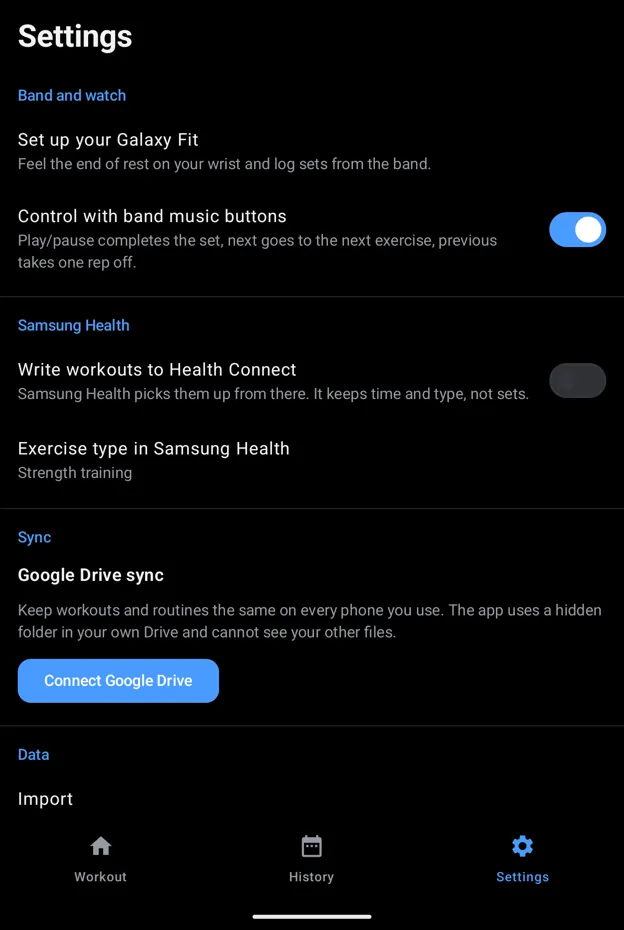
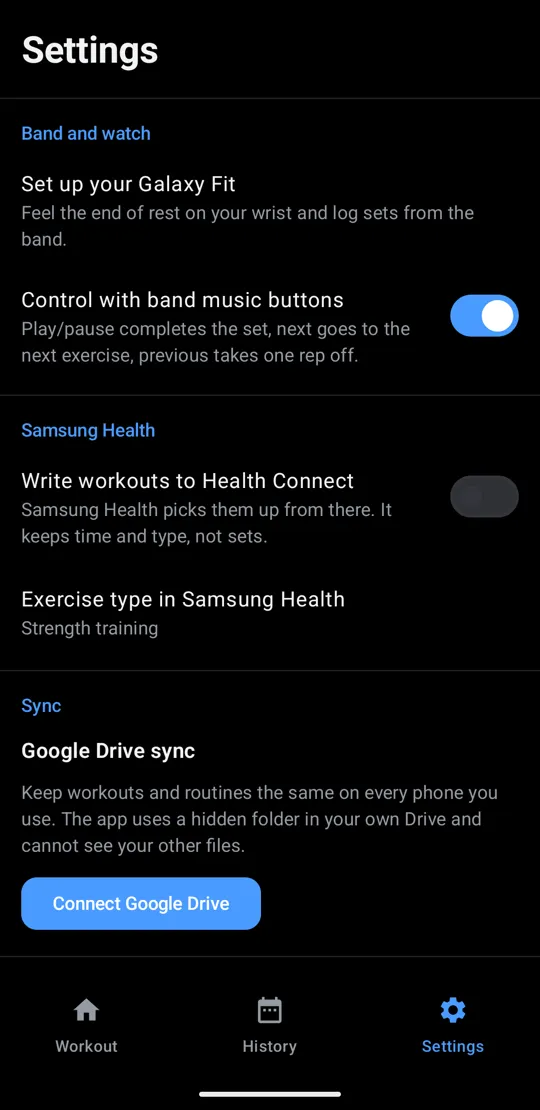
Use normal phone screenshots and a hero preview image
Phone screens are now captured at a regular phone size in both languages,
the link preview shows the band and the workout screen, the pages declare
light and dark support so browsers do not repaint them, and the Hevy and
Samsung Health sections say plainly what moves where.

Claude-Session: https://claude.ai/code/session_0114LWE17qvxGiTXra3xXtzB

diff --git a/ko/index.html b/ko/index.html
@@ -3,11 +3,15 @@
 <head>
   <meta charset="utf-8">
   <meta name="viewport" content="width=device-width, initial-scale=1">
+  <meta name="color-scheme" content="light dark">
   <title>FitGymLog: Galaxy Fit으로 조작하는 운동 기록</title>
   <meta name="description" content="Android용 운동 기록 앱. Galaxy Fit의 음악 버튼으로 세트를 끝내고, 휴식이 끝나면 손목 진동으로 알려주고, 원판을 눌러 무게를 맞춥니다.">
   <meta property="og:title" content="FitGymLog">
   <meta property="og:description" content="Galaxy Fit 밴드로 조작하는 Android 운동 기록 앱.">
-  <meta property="og:image" content="https://wonjoonseol-ws.github.io/fitgymlog/images/fold-ko.webp">
+  <meta property="og:image" content="https://wonjoonseol-ws.github.io/fitgymlog/images/og-ko.jpg">
+  <meta property="og:image:width" content="1200">
+  <meta property="og:image:height" content="630">
+  <meta name="twitter:card" content="summary_large_image">
   <link rel="alternate" hreflang="en" href="https://wonjoonseol-ws.github.io/fitgymlog/">
   <link rel="icon" href="../assets/icon.svg">
   <link rel="preconnect" href="https://fonts.googleapis.com">
@@ -46,7 +50,7 @@
           <p class="fine">Android 13 이상. Galaxy Fit3와 Galaxy Z 폴드에서 테스트했습니다. 아직 Google Play에는 없습니다.</p>
         </div>
         <div class="stack">
-          <div class="phone"><img src="../images/workout-ko.webp" width="624" height="930" alt="진행 중인 운동: 스쿼트 60kg 8회 세트와 완료 체크 칸"></div>
+          <div class="phone"><img src="../images/workout-ko.webp" width="540" height="1110" alt="진행 중인 운동: 스쿼트 60kg 8회 세트와 완료 체크 칸"></div>
           <svg class="fit3" viewBox="0 0 240 400" role="img" aria-label="Galaxy Fit3의 음악 조작 화면에 지금 세트가 보이는 그림">
             <defs><clipPath id="fit3-screen-ko"><rect x="54" y="70" width="132" height="260"/></clipPath></defs>
             <path class="wave" d="M22 160q-10 40 0 80"/><path class="wave far" d="M9 145q-14 55 0 110"/>
@@ -104,7 +108,7 @@
             <p>밴드의 음악 버튼은 가장 최근에 재생을 시작한 앱으로 갑니다. YouTube Music, Spotify, 자세 영상을 틀면 버튼이 그 앱과
               FitGymLog 사이를 오갈 수 있습니다. 휴식 진동은 알림이라 언제나 옵니다.</p></div>
         </div>
-        <div class="phone"><img src="../images/settings-band-ko.webp" width="624" height="930" alt="Galaxy Fit 연결과 밴드 음악 버튼 스위치가 있는 설정 화면" loading="lazy"></div>
+        <div class="phone"><img src="../images/settings-band-ko.webp" width="540" height="1110" alt="Galaxy Fit 연결과 밴드 음악 버튼 스위치가 있는 설정 화면" loading="lazy"></div>
       </div>
     </section>
 
@@ -118,7 +122,7 @@
             <li class="p25">25</li><li class="p20">20</li><li class="p15">15</li><li class="p10">10</li><li class="p5">5</li><li class="p2">2.5</li><li class="p1">1.25</li>
           </ul>
         </div>
-        <div class="phone"><img src="../images/plates-ko.webp" width="624" height="930" alt="바벨에 원판으로 212.5kg을 맞춘 무게 입력 화면" loading="lazy"></div>
+        <div class="phone"><img src="../images/plates-ko.webp" width="540" height="1110" alt="바벨에 원판으로 212.5kg을 맞춘 무게 입력 화면" loading="lazy"></div>
       </div>
     </section>
 
@@ -129,7 +133,7 @@
           <p class="lead">스쿼트, 벤치 프레스, 데드리프트, 오버헤드 프레스, 바벨 로우에는 StrongLifts의 영상과 설명 글이 들어
             있습니다. 어떤 운동에든 YouTube나 웹 링크를 추가하면 사진과 제목이 함께 보입니다. 영상은 YouTube에서 열립니다.</p>
         </div>
-        <div class="phone"><img src="../images/form-guide-ko.webp" width="624" height="930" alt="StrongLifts 영상과 글이 있는 벤치 프레스 자세 가이드" loading="lazy"></div>
+        <div class="phone"><img src="../images/form-guide-ko.webp" width="540" height="1110" alt="StrongLifts 영상과 글이 있는 벤치 프레스 자세 가이드" loading="lazy"></div>
       </div>
     </section>
 
@@ -144,9 +148,9 @@
 
     <section class="block soft" id="hevy">
       <div class="wrap">
-        <h2>써보고, 아니면 바로 돌아가세요</h2>
-        <p class="lead">Hevy를 쓰고 있다면 기록 전체를 한 번에 가져오세요. 한국어로 내보낸 파일도 됩니다. 마음에 들지 않으면 Hevy의
-          가져오기가 받는 Strong CSV로 내보내서 Hevy에서 그대로 이어가면 됩니다. Strong 파일도 가져올 수 있습니다.</p>
+        <h2>데이터 종속 없음. 언제든 돌아가세요</h2>
+        <p class="lead">Hevy 기록 전체를 한 번에 가져옵니다. 한국어로 내보낸 파일도 됩니다. 마음에 안 들면 Hevy의 가져오기가 받는
+          Strong CSV로 한 번 내보내면 바로 Hevy로 돌아갑니다. 써봐서 손해 볼 게 없습니다. Strong 파일도 가져올 수 있습니다.</p>
         <ol class="flow" aria-label="Hevy에서 FitGymLog로, 다시 Hevy로">
           <li class="app-chip">Hevy</li>
           <li class="step">CSV 내보내기 후 가져오기</li>
@@ -154,7 +158,7 @@
           <li class="step">Strong CSV로 내보내기</li>
           <li class="app-chip">Hevy</li>
         </ol>
-        <p class="fine-print">세트, 무게, 횟수는 양쪽으로 그대로 갑니다. 워밍업, 드롭, 실패 세트 표시는 아직 Strong CSV에 담기지 않습니다.</p>
+        <p class="fine-print">세트, 무게, 횟수는 양쪽으로 그대로 갑니다.</p>
       </div>
     </section>
 
@@ -186,11 +190,11 @@
           <h2>내 기록은 내가 갖고</h2>
           <dl class="facts">
             <div><dt>휴대폰에 저장</dt><dd>운동 기록은 휴대폰에 있고, 백업과 내보내기는 내가 보관하는 파일입니다. 계정, 광고, 분석이 없습니다.</dd></div>
-            <div><dt>Samsung Health</dt><dd>마친 운동은 Health Connect에 기록되고, Samsung Health가 거기서 가져갑니다. 시간과 종류만 남고 세트는 남지 않습니다.</dd></div>
+            <div><dt>Samsung Health</dt><dd>FitGymLog는 세트까지 전부 Health Connect에 기록합니다. Samsung Health는 거기서 운동을 가져가지만, 지금은 시간과 운동 종류만 보여줍니다.</dd></div>
             <div><dt>Google Drive 동기화도 내 Drive에</dt><dd>선택 사항입니다. 내 Drive의 숨김 폴더에 파일 하나를 두고 휴대폰끼리 맞춥니다. 앱은 다른 파일을 볼 수 없습니다.</dd></div>
           </dl>
         </div>
-        <div class="phone"><img src="../images/settings-data-ko.webp" width="624" height="930" alt="Google Drive 동기화, 가져오기, 내보내기 세 가지가 있는 설정 화면" loading="lazy"></div>
+        <div class="phone"><img src="../images/settings-data-ko.webp" width="540" height="1110" alt="Google Drive 동기화, 가져오기, 내보내기 세 가지가 있는 설정 화면" loading="lazy"></div>
       </div>
     </section>
   </main>

diff --git a/index.html b/index.html
@@ -3,11 +3,15 @@
 <head>
   <meta charset="utf-8">
   <meta name="viewport" content="width=device-width, initial-scale=1">
+  <meta name="color-scheme" content="light dark">
   <title>FitGymLog: a workout log you can run from a Galaxy Fit</title>
   <meta name="description" content="A workout log for Android. Complete sets with your Galaxy Fit's music buttons, feel a buzz when rest is over, and load the bar by tapping plates.">
   <meta property="og:title" content="FitGymLog">
   <meta property="og:description" content="A workout log for Android that you can run from a Galaxy Fit band.">
-  <meta property="og:image" content="https://wonjoonseol-ws.github.io/fitgymlog/images/fold-en.webp">
+  <meta property="og:image" content="https://wonjoonseol-ws.github.io/fitgymlog/images/og-en.jpg">
+  <meta property="og:image:width" content="1200">
+  <meta property="og:image:height" content="630">
+  <meta name="twitter:card" content="summary_large_image">
   <link rel="alternate" hreflang="ko" href="https://wonjoonseol-ws.github.io/fitgymlog/ko/">
   <link rel="icon" href="assets/icon.svg">
   <link rel="preconnect" href="https://fonts.googleapis.com">
@@ -45,7 +49,7 @@
           <p class="fine">Android 13 or newer. Tested with a Galaxy Fit3 and a Galaxy Z Fold. Not on Google Play yet.</p>
         </div>
         <div class="stack">
-          <div class="phone"><img src="images/workout-en.webp" width="624" height="930" alt="A workout in progress: squat sets of 60 kg for 8 reps with done boxes"></div>
+          <div class="phone"><img src="images/workout-en.webp" width="540" height="1110" alt="A workout in progress: squat sets of 60 kg for 8 reps with done boxes"></div>
           <svg class="fit3" viewBox="0 0 240 400" role="img" aria-label="Illustration of a Galaxy Fit3 showing the current set in its music controls">
             <defs><clipPath id="fit3-screen-en"><rect x="54" y="70" width="132" height="260"/></clipPath></defs>
             <path class="wave" d="M22 160q-10 40 0 80"/><path class="wave far" d="M9 145q-14 55 0 110"/>
@@ -104,7 +108,7 @@
               video playing, presses can switch back and forth between that app and FitGymLog. The rest buzz is a notification,
               so it always comes through.</p></div>
         </div>
-        <div class="phone"><img src="images/settings-band-en.webp" width="624" height="930" alt="Settings with the Galaxy Fit setup and the band music button switch" loading="lazy"></div>
+        <div class="phone"><img src="images/settings-band-en.webp" width="540" height="1110" alt="Settings with the Galaxy Fit setup and the band music button switch" loading="lazy"></div>
       </div>
     </section>
 
@@ -118,7 +122,7 @@
             <li class="p25">25</li><li class="p20">20</li><li class="p15">15</li><li class="p10">10</li><li class="p5">5</li><li class="p2">2.5</li><li class="p1">1.25</li>
           </ul>
         </div>
-        <div class="phone"><img src="images/plates-en.webp" width="624" height="930" alt="The weight sheet with 212.5 kg loaded as plates on a barbell" loading="lazy"></div>
+        <div class="phone"><img src="images/plates-en.webp" width="540" height="1110" alt="The weight sheet with 212.5 kg loaded as plates on a barbell" loading="lazy"></div>
       </div>
     </section>
 
@@ -129,7 +133,7 @@
           <p class="lead">Squat, bench press, deadlift, overhead press and barbell row come with StrongLifts' videos and written
             guides. Add a YouTube or web link to any exercise and it shows with its picture and title. Videos open in YouTube.</p>
         </div>
-        <div class="phone"><img src="images/form-guide-en.webp" width="624" height="930" alt="The bench press form guide with a StrongLifts video and article" loading="lazy"></div>
+        <div class="phone"><img src="images/form-guide-en.webp" width="540" height="1110" alt="The bench press form guide with a StrongLifts video and article" loading="lazy"></div>
       </div>
     </section>
 
@@ -144,10 +148,10 @@
 
     <section class="block soft" id="hevy">
       <div class="wrap">
-        <h2>Try it. Go back anytime.</h2>
-        <p class="lead">Coming from Hevy? Bring your whole history in with one import, even an export written in Korean. If
-          FitGymLog isn't for you, export a Strong CSV, the format Hevy's own importer takes, and carry on in Hevy. Strong
-          exports import too.</p>
+        <h2>No lock-in. Go back anytime.</h2>
+        <p class="lead">Bring your whole Hevy history in with one import, even an export written in Korean. Don't like it?
+          One Strong CSV export, the format Hevy's own importer takes, and you're back in Hevy. Nothing to lose by trying.
+          Strong exports import too.</p>
         <ol class="flow" aria-label="From Hevy to FitGymLog and back">
           <li class="app-chip">Hevy</li>
           <li class="step">Export CSV, then Import</li>
@@ -155,7 +159,7 @@
           <li class="step">Export Strong CSV</li>
           <li class="app-chip">Hevy</li>
         </ol>
-        <p class="fine-print">Sets, weights and reps go both ways. Warm-up, drop and failure marks don't make it into the Strong CSV yet.</p>
+        <p class="fine-print">Your sets, weights and reps go both ways.</p>
       </div>
     </section>
 
@@ -187,11 +191,11 @@
           <h2>Your data stays with you</h2>
           <dl class="facts">
             <div><dt>On your phone</dt><dd>Workouts live on your phone, and backups and exports are files you keep. No account, no ads, no analytics.</dd></div>
-            <div><dt>Samsung Health</dt><dd>Finished workouts go to Health Connect, where Samsung Health picks them up. It keeps the time and type, not the sets.</dd></div>
+            <div><dt>Samsung Health</dt><dd>FitGymLog writes every set to Health Connect. Samsung Health picks the workout up from there, but for now it shows only the time and type.</dd></div>
             <div><dt>Google Drive sync, in your Drive</dt><dd>Optional. One file in a hidden folder of your own Drive keeps your phones in step. The app cannot see your other files.</dd></div>
           </dl>
         </div>
-        <div class="phone"><img src="images/settings-data-en.webp" width="624" height="930" alt="Settings with Google Drive sync, import and the three export options" loading="lazy"></div>
+        <div class="phone"><img src="images/settings-data-en.webp" width="540" height="1110" alt="Settings with Google Drive sync, import and the three export options" loading="lazy"></div>
       </div>
     </section>
   </main>

diff --git a/privacy.html b/privacy.html
@@ -3,6 +3,7 @@
 <head>
   <meta charset="utf-8">
   <meta name="viewport" content="width=device-width, initial-scale=1">
+  <meta name="color-scheme" content="light dark">
   <title>Privacy policy | FitGymLog</title>
   <meta name="description" content="What the FitGymLog Android app stores, and where.">
   <link rel="icon" href="assets/icon.svg">

diff --git a/assets/style.css b/assets/style.css
@@ -1,4 +1,5 @@
 :root {
+  color-scheme: light dark;
   --bg: #ffffff;
   --bg-soft: #f3f4f6;
   --fg: #15171a;
